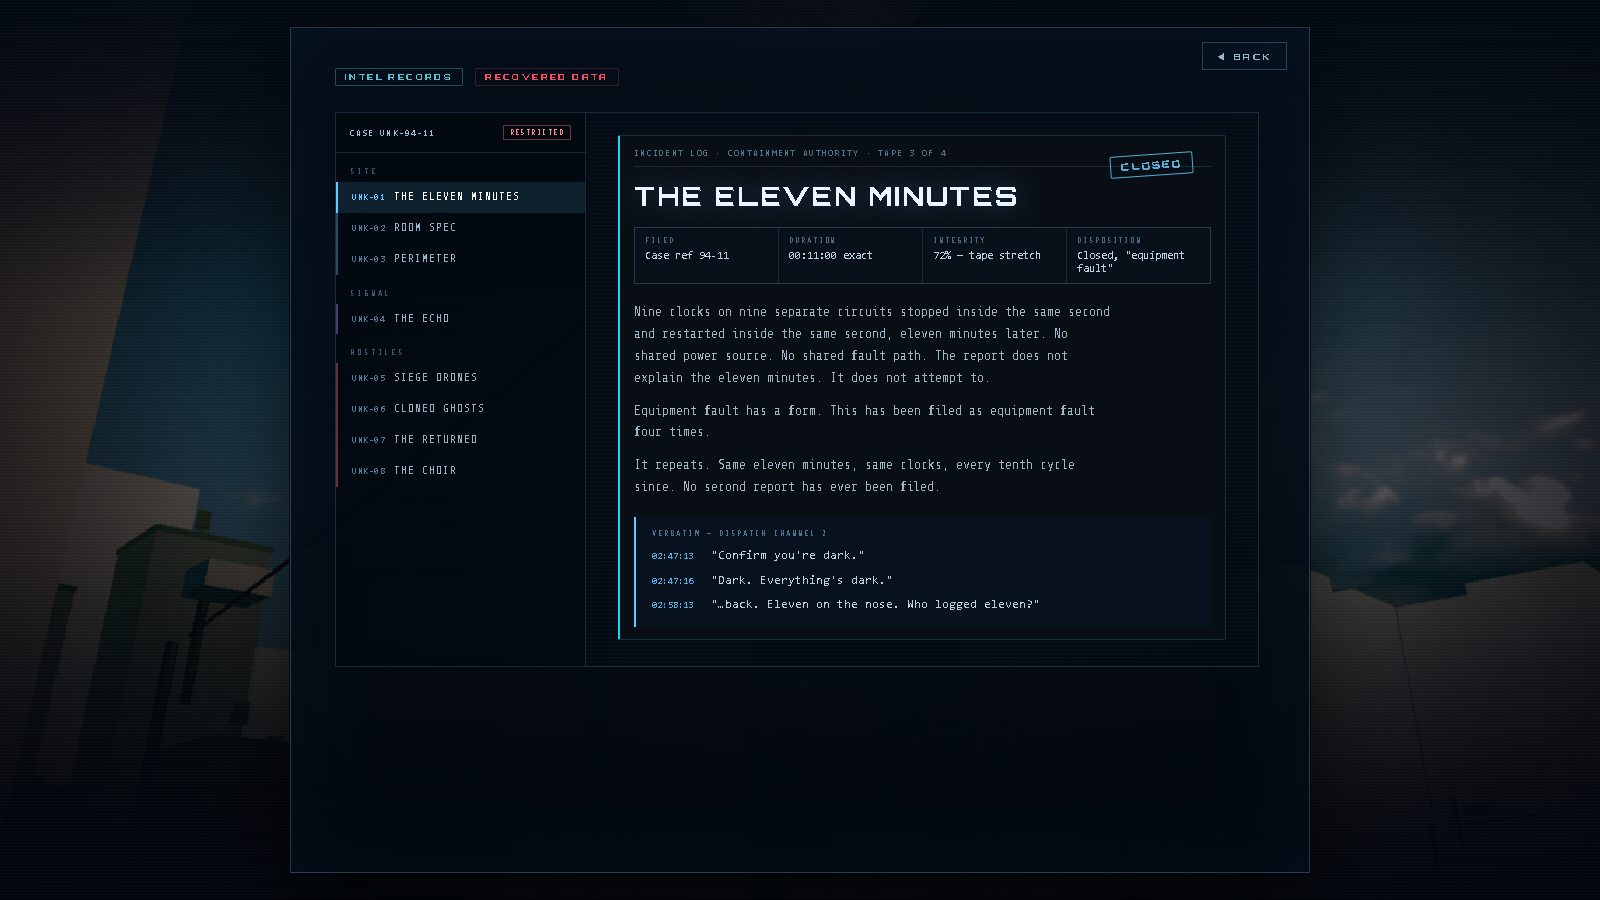
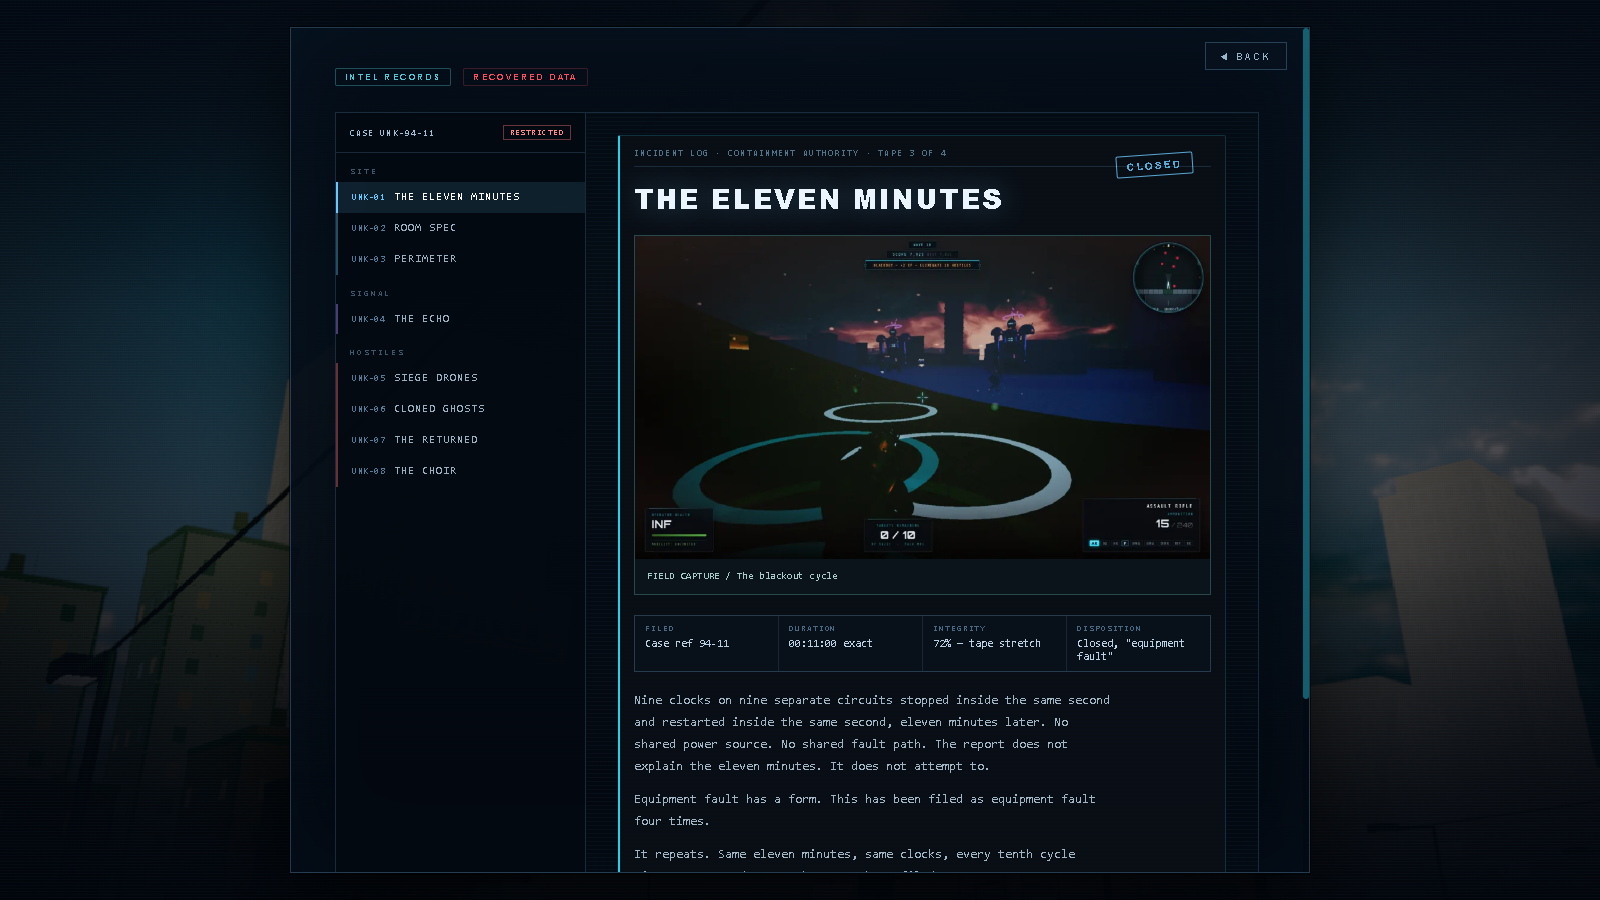
docs: regenerate README screenshot gallery, update copy for the relay objective
Retakes every screenshot in docs/screenshots/ against the current build
(npx playwright test .tools/ui/readme-shots.spec.cjs --headed) instead of the
six-week-old Aug 1 set. Updates the intro and "The fight" section to describe
the relay-upload wave objective and the always-awake enemy AI now visible in
the shots, in place of the old pure kill-quota framing.

Also fixes a bug the earlier .tools/ reorg introduced: readme-shots.spec.cjs
moved from .tools/ to .tools/ui/, so its __dirname-relative OUT path silently
started writing to .tools/docs/screenshots instead of docs/screenshots. Adds
a dismissPerfPrompt() helper so the shadow-performance dialog (triggered when
this machine's real GPU dips under the spec's 48fps threshold during the
heavier stages) doesn't sit on top of subsequent shots.

blackout_firesky and perk_machine are left at their previous images: staging
either one currently leaves the game stuck on the pause overlay instead of
the intended view (setWave(10) and the perk-statue teleport position both
reproduce it on a clean run) — a gameplay bug in the encounter-director/HUD
work in progress, not a screenshot-tooling issue, so it needs a fix in that
code rather than a workaround here.

diff --git a/README.md b/README.md
@@ -1,6 +1,6 @@
 # UNKNW — Containment Protocol
 
-A browser-based third-person wave-survival shooter built on **Three.js r166**, written in TypeScript with a Rapier physics backend. Hold an open-air urban district against escalating waves of drones, clones, zombies and storm-angels — start with nothing but a service pistol, gamble for better guns at the mystery box, stack perks at the plaza statue, and survive the wave-10 blackouts when the power dies and the sky catches fire.
+A browser-based third-person wave-survival shooter built on **Three.js r166**, written in TypeScript with a Rapier physics backend. Push through an open-air urban district against escalating waves of drones, clones, zombies and storm-angels — each normal wave is a relay upload, not just a kill quota: reach the marked zone and hold it uncontested while living enemies nearby stall your progress. Start with nothing but a service pistol, gamble for better guns at the mystery box, stack perks at the plaza statue, and survive the wave-10 blackouts when the power dies and the sky catches fire.
 
 ![Hold the plaza against the Storm Wardens](docs/screenshots/hero_combat.png)
 
@@ -13,7 +13,9 @@ A browser-based third-person wave-survival shooter built on **Three.js r166**, w
 | ![The zombie horde closes in across the arena](docs/screenshots/zombies.png) | ![Blackout wave — the power dies and the sky burns](docs/screenshots/blackout_firesky.png) |
 | **The horde** — screaming, weaving zombies that swing mid-sprint on a layered upper-body attack clip | **Blackout waves** — every 10th wave the lights die, an animated fire dome replaces the sky, and everything pays double XP |
 
-Five hostile types, each with its own AI brain rather than a shared chase routine: the **Siege Drone** phase-machine artillery, the **Blink Seraph** that phases out and re-arrives on your flank, the zone-denying **Null Cherub**, kiting **Cloned Ghost** riflemen that mirror your own movement mechanics, and the **Zombie** horde.
+Five hostile types, each with its own AI brain rather than a shared chase routine: the **Siege Drone** phase-machine artillery, the **Blink Seraph** that phases out and re-arrives on your flank, the zone-denying **Null Cherub**, kiting **Cloned Ghost** riflemen that mirror your own movement mechanics, and the **Zombie** horde. Every hostile is awake and tracking you from the moment a wave starts — nothing waits offscreen to be discovered.
+
+Normal waves aren't a clear-the-room kill quota: reach the relay marker (shown on the HUD and radar) and hold it — 11 uncontested seconds within 3.5 m — to advance. A living enemy within 5 m stalls the upload, so killing everyone isn't required, but it isn't optional against pressure either. Each wave opens with a brief damage shield while the squad spawns in. Blackout waves keep their own distinct survive-and-fight rule instead.
 
 ## The economy
 
